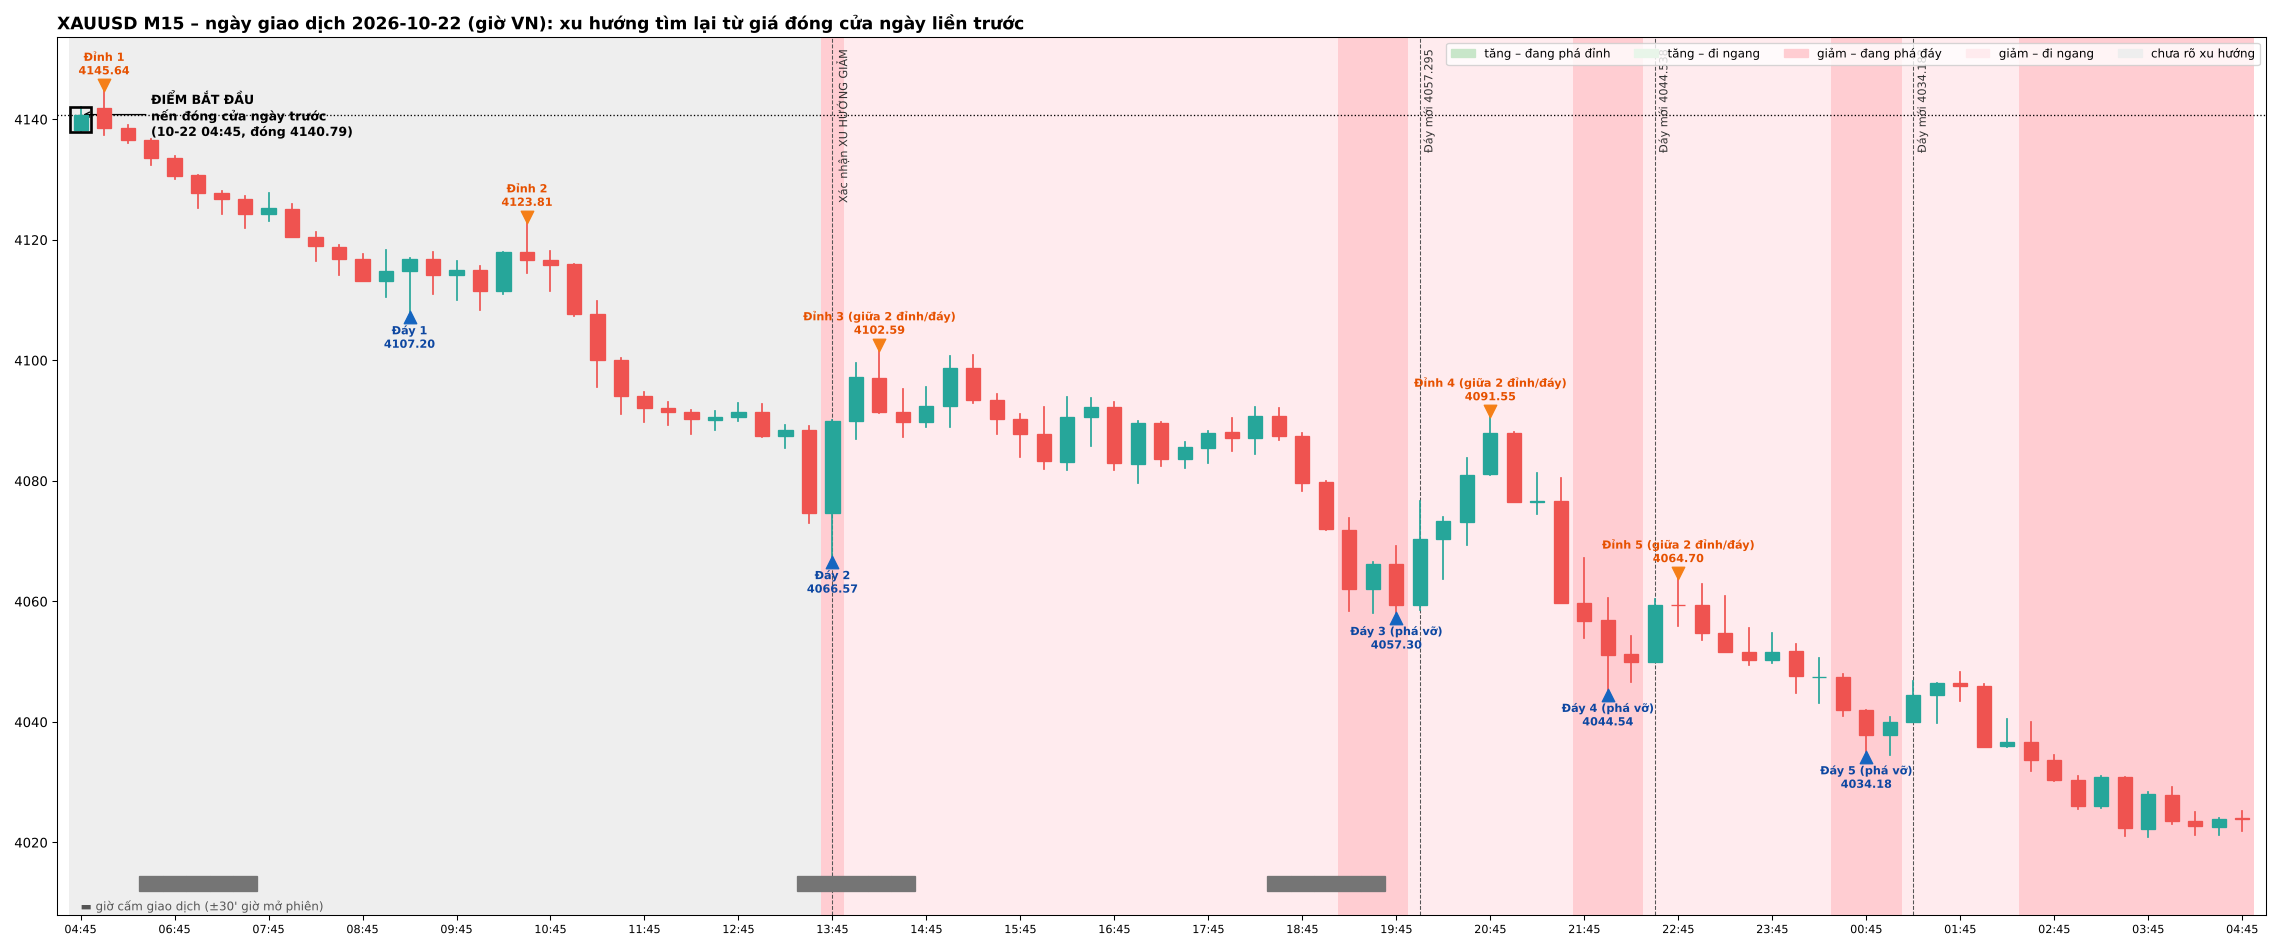
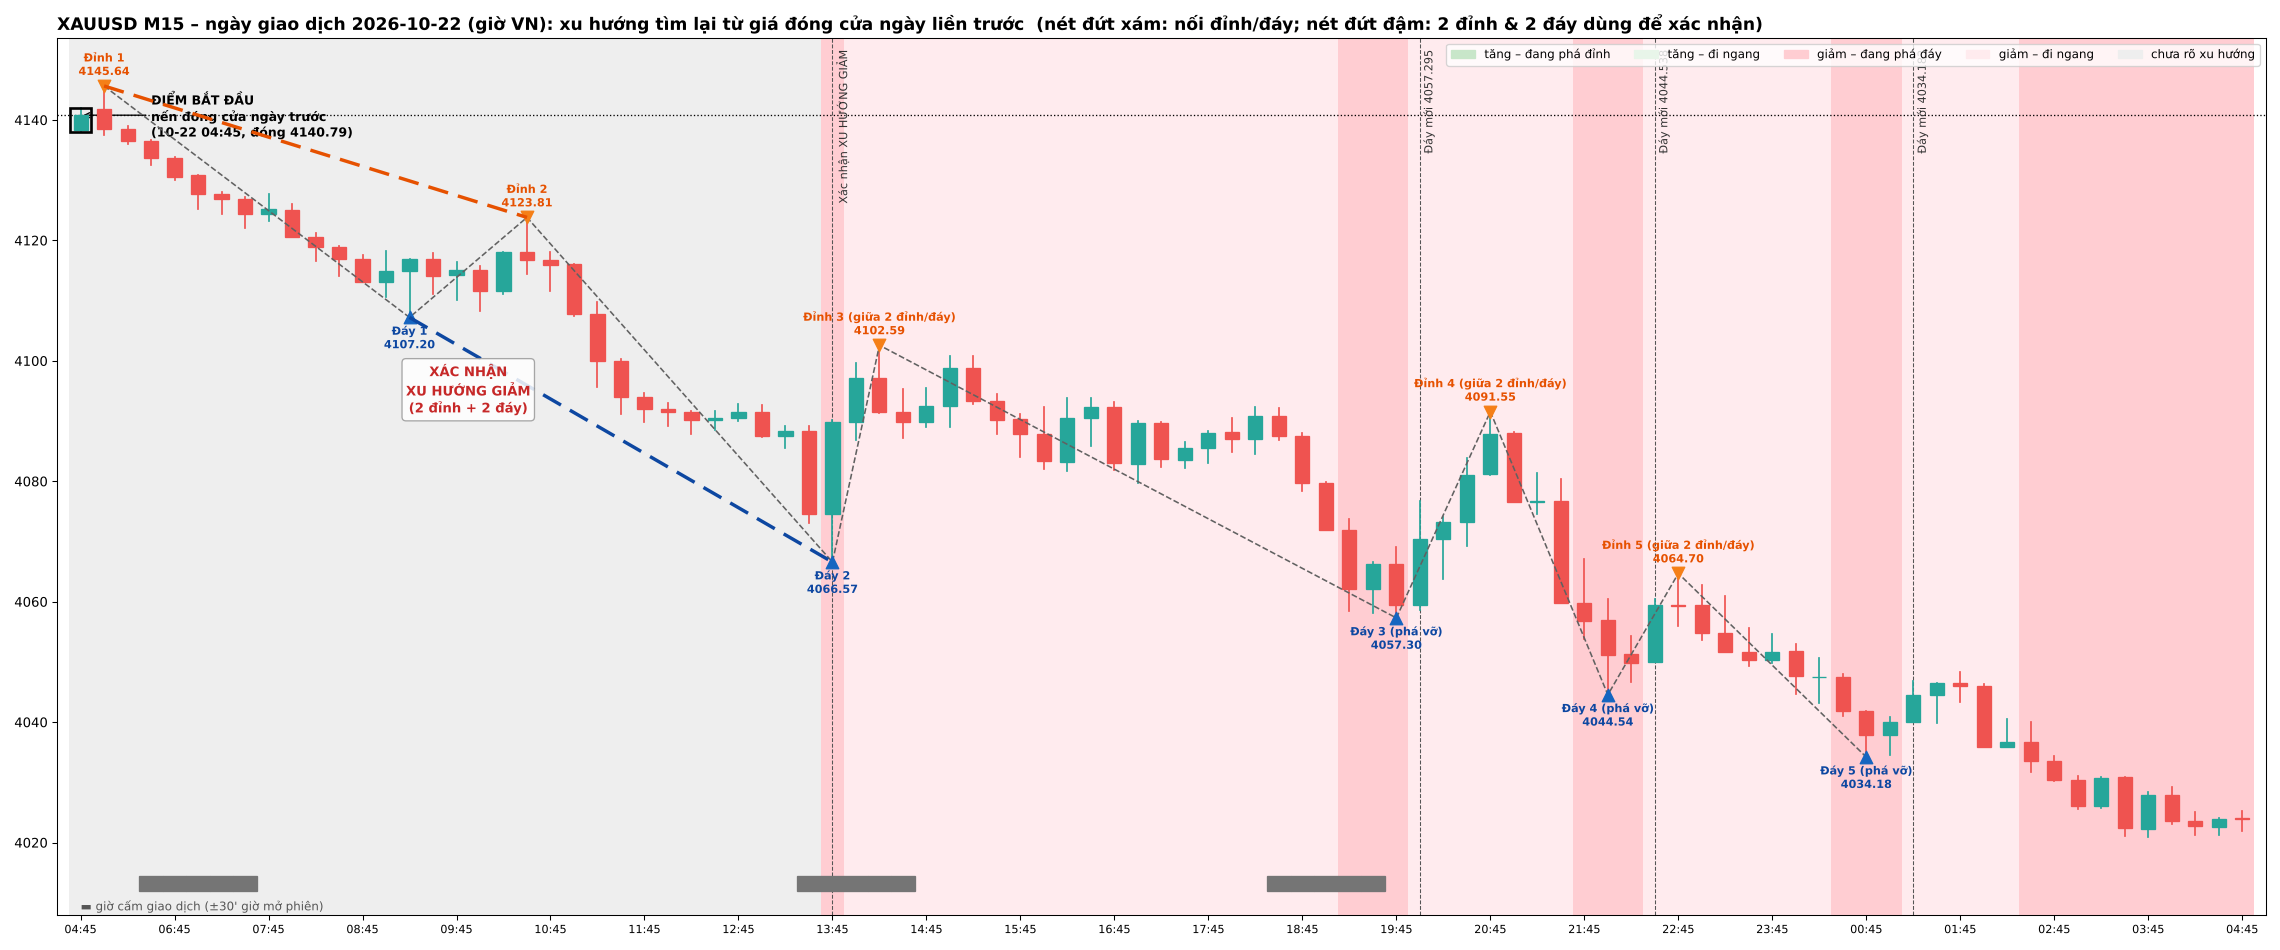
Vẽ xu hướng ngày: thêm nét đứt nối đỉnh/đáy và cặp đỉnh/đáy dùng để xác nhận xu hướng
Claude-Session: https://claude.ai/code/session_01QDQqkxbAsnss6apbWZAP33

diff --git a/tools/ve_xu_huong_ngay.py b/tools/ve_xu_huong_ngay.py
@@ -34,6 +34,24 @@ for s in sorted(r.swings, key=lambda s: s.i):
         nb += 1; ax.scatter([s.i], [s.price], marker="^", s=90, color="#1565c0", zorder=6)
         ax.text(s.i, s.price - 1.2, f"Đáy {nb}{lab[s.how]}\n{s.price:.2f}", ha="center", va="top", fontsize=8.5, color="#0d47a1", fontweight="bold")
 ymin = min(x.l for x in seg); ymax = max(x.h for x in seg)
+# đường nét đứt nối các đỉnh/đáy theo thứ tự thời gian (dạng zigzag)
+sw = sorted(r.swings, key=lambda s: s.i)
+ax.plot([s.i for s in sw], [s.price for s in sw], color="#616161", lw=1.2, ls="--", zorder=5)
+# khi xác nhận xu hướng: nối 2 đỉnh và 2 đáy dùng để kết luận
+for i, t in r.events:
+    if not t.startswith("Xác nhận"):
+        continue
+    used = [s for s in sw if s.conf <= i]
+    tops = [s for s in used if s.kind == "T"][-2:]; bots = [s for s in used if s.kind == "B"][-2:]
+    if len(tops) == 2:
+        ax.plot([tops[0].i, tops[1].i], [tops[0].price, tops[1].price], color="#e65100", lw=2.6, ls=(0, (6, 3)), zorder=6)
+    if len(bots) == 2:
+        ax.plot([bots[0].i, bots[1].i], [bots[0].price, bots[1].price], color="#0d47a1", lw=2.6, ls=(0, (6, 3)), zorder=6)
+    xs = [s.i for s in tops + bots]
+    ax.text((min(xs) + max(xs)) / 2, (tops[-1].price + bots[-1].price) / 2 if tops and bots else ymax,
+            t.replace("Xác nhận ", "XÁC NHẬN\n") + "\n(2 đỉnh + 2 đáy)", ha="center", va="center", fontsize=10, fontweight="bold",
+            color="#c62828" if "GIẢM" in t else "#2e7d32",
+            bbox=dict(facecolor="white", alpha=.85, edgecolor="#999", boxstyle="round,pad=0.3"), zorder=7)
 for i, t in r.events:
     ax.axvline(i, color="#555", lw=.8, ls="--", zorder=1)
     ax.text(i + .15, ymax + 6, t, rotation=90, fontsize=8.5, va="top", color="#333")
@@ -49,7 +67,8 @@ from matplotlib.patches import Patch
 ax.legend(handles=[Patch(color=col[k], label=v) for k, v in [("UP", "tăng – đang phá đỉnh"), ("SIDE_UP", "tăng – đi ngang"),
           ("DOWN", "giảm – đang phá đáy"), ("SIDE_DOWN", "giảm – đi ngang"), ("UNCLEAR", "chưa rõ xu hướng")]],
           loc="upper right", fontsize=9, ncol=5)
-ax.set_title(f"XAUUSD M15 – ngày giao dịch {seg[1].t[:10]} (giờ VN): xu hướng tìm lại từ giá đóng cửa ngày liền trước",
+ax.set_title(f"XAUUSD M15 – ngày giao dịch {seg[1].t[:10]} (giờ VN): xu hướng tìm lại từ giá đóng cửa ngày liền trước"
+             "  (nét đứt xám: nối đỉnh/đáy; nét đứt đậm: 2 đỉnh & 2 đáy dùng để xác nhận)",
              loc="left", fontsize=13, fontweight="bold")
 plt.tight_layout(); plt.savefig(f"backtest/xauusd-m15-ngay-{DAY}.png", dpi=95)
 print(seg[1].t, "→", seg[-1].t, n, "nến;", len(r.swings), "đỉnh/đáy"); [print(seg[i].t, t) for i, t in r.events]
